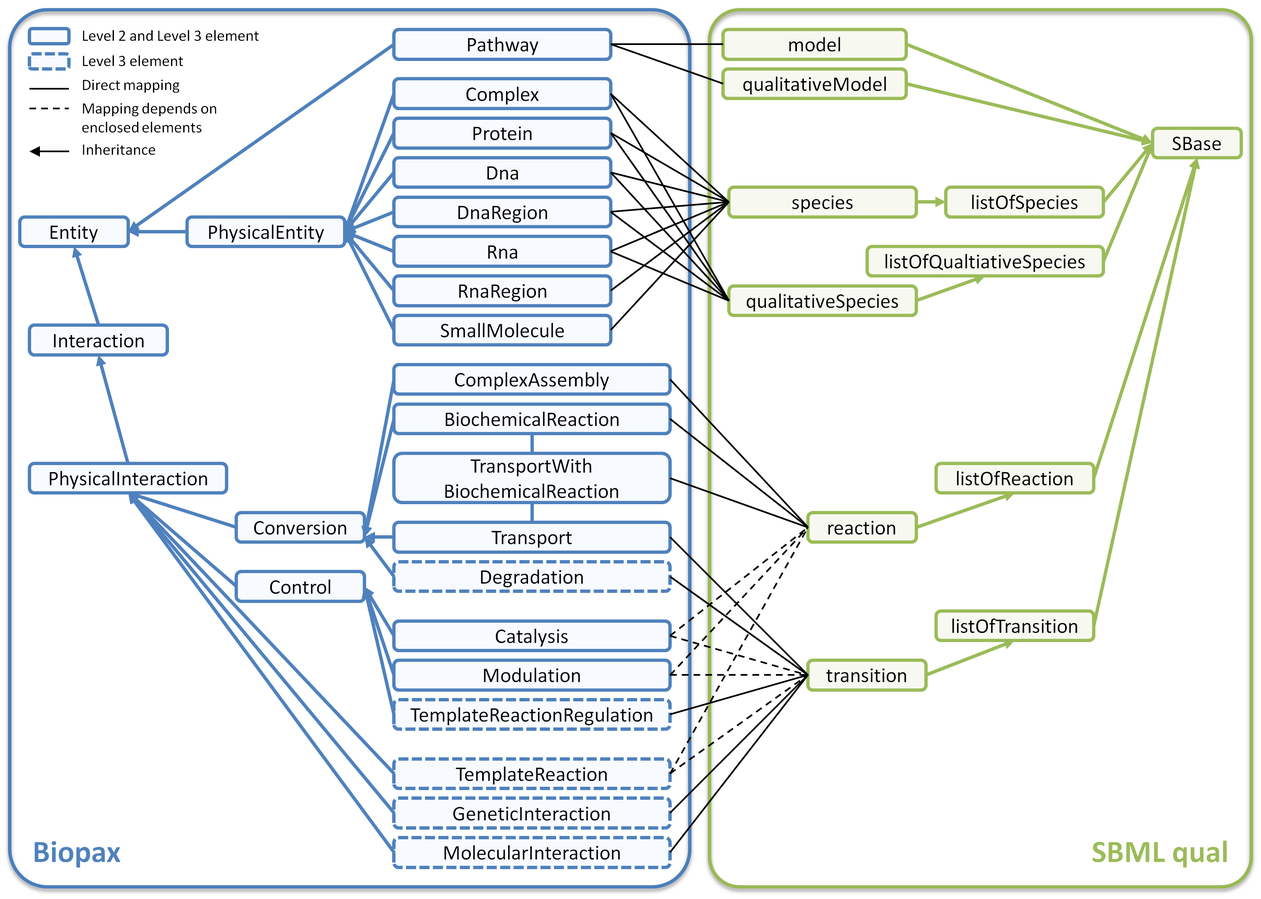
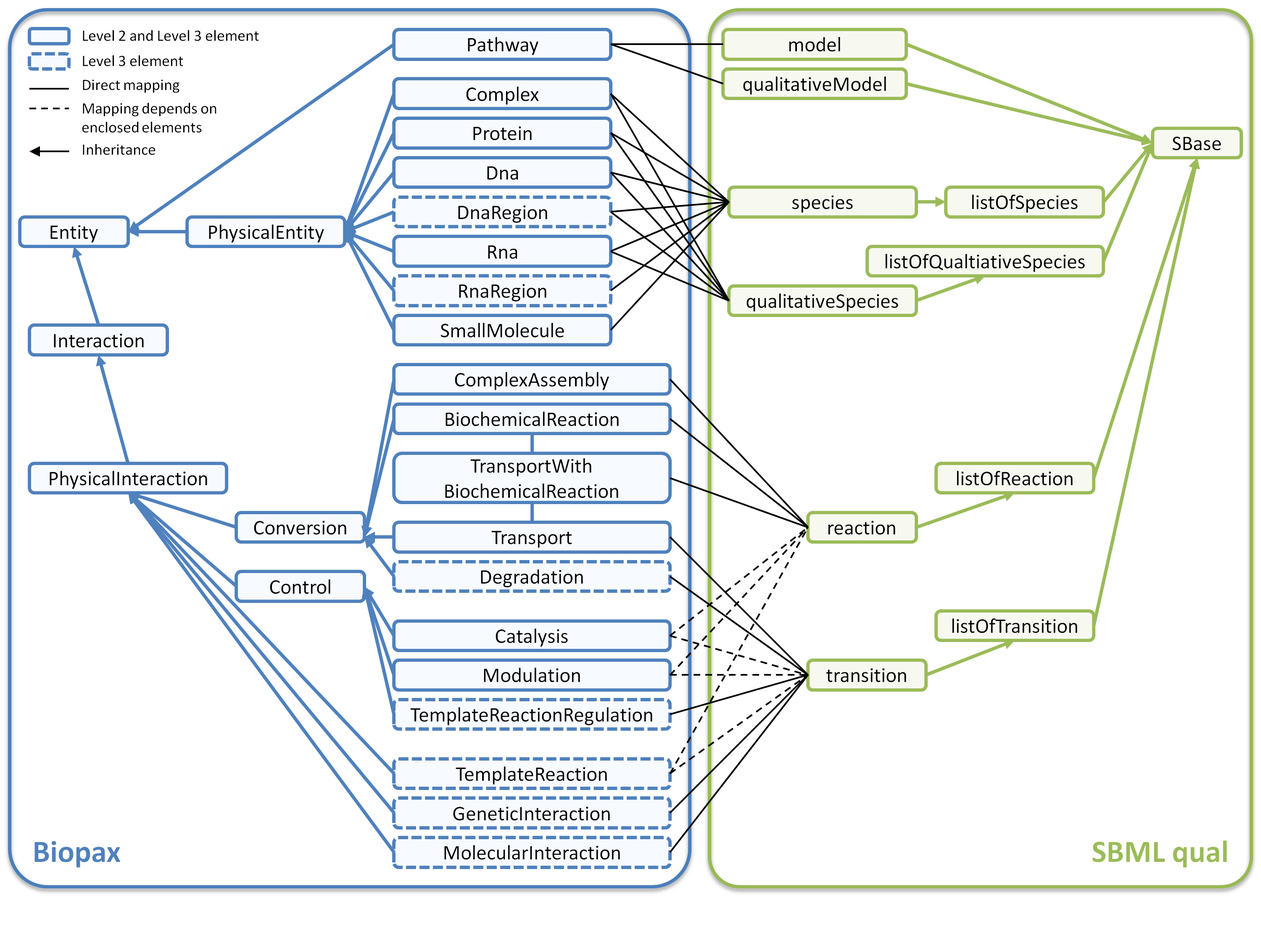
Added some citations, changed the image. Currently, I am working on the chapter 2.4
git-svn-id: svn://rarepos.cs.uni-tuebingen.de/SysBio/trunk@860 e728d8a2-de87-4acf-9dc5-8dc47f4ff2f0

Changed region(s): [[0.0, 0.0, 1.0, 1.0], [0.0, 0.0, 0.186, 0.1852]]

diff --git a/doc/ECCB2012_paper/document.tex b/doc/ECCB2012_paper/document.tex
@@ -21,16 +21,16 @@ and Andreas Zell\,$^1$\footnote{to whom correspondence should be addressed}}
 \begin{abstract}
 
 \section{Motivation:}
-BioPax and SBML are the two most popular modeling and data exchange languages in systems biology. 
-The focus of SBML is quantitative modeling and dynamic simulation of molecular interaction pathways, whereas the BioPax specification concentrates on visualization and qualitative analysis of pathway maps. 
-BioPax models reactions and relations. In contrast, SBML is exclusively able to handle reactions. 
-But with the release of the SBML qualitative Models extension (qual), it has recently also become possible to describe relations in SBML. 
+The Biological Pathway Exchange Language (BioPax) and the Systems Biology Markup Language (SBML) are the two most popular modeling and data exchange languages in systems biology.
+The focus of SBML is quantitative modeling and dynamic simulation of molecular interaction pathways, whereas the BioPax specification concentrates on visualization and qualitative analysis of pathway maps.
+BioPax models reactions and relations. In contrast, SBML is exclusively able to handle reactions.
+But with the release of the SBML qualitative Models extension (qual), it has recently also become possible to describe relations in SBML.
 Before this release, relations could not be translated to SBML or were erroneously converted to reactions. U
 ntil now, there exists no converter for BioPax to SBML, that is fully capable to translate both reactions and relations.
 \section{Results:}
-Here we present the conversion of the complete nature Pathway Interaction Database (PID) which includes pathways from BioCarta, Reactome, and from the National Cancer institute. 
-PID provides the pathways in the BioPax Level 2 and Level 3 format. 
-Both formats are translated to the SBML format including the new qual extension. 
+Here we present the conversion of the complete nature Pathway Interaction Database (PID) which includes pathways from BioCarta, Reactome, and from the National Cancer institute.
+PID provides the pathways in the BioPax Level 2 and Level 3 format.
+Both formats are translated to the SBML format including the new qual extension.
 Thus, the result SBML files contain both reactions and relations.
 \section{Availability:}
 The complete collection of the PID models is freely available on our homepage ..... (\textbf{TODO Finja: create homepage! and and if necessary licence})
@@ -38,26 +38,26 @@ The complete collection of the PID models is freely available on our homepage ..
 \end{abstract}
 
 \section{Introduction}
-The goal of systems biology is the modeling and understanding of biological and chemical processes in a cell. 
-BioPax and SBML are common modeling languages to describe such processes. 
-The BioPax specification aims at exchanging, visualization, and analyzing such processes on a large scale. 
-BioPax can be used to image metabolic, signaling, molecular, gene regulatory and genetic interaction networks \citep{Demir2010}. 
-In contrast, SBML is mostly used for quantitative modeling because it offers the possibility to include kinetic equations and enables the interpretation of the interaction network as an differential equation system \citep{Hucka2003}. 
-This is due to a detailed and comprehensive SBML specification which additionally facilitates software support for investigation and simulation processes \citep{Draeger2008}. 
+The goal of systems biology is the modeling and understanding of biological and chemical processes in a cell.
+The Biological Pathway Exchange Language (BioPax) and the Systems Biology Markup Language (SBML) are common modeling languages to describe such processes.
+The BioPax specification aims at exchanging, visualization, and analyzing such processes on a large scale.
+BioPax can be used to image metabolic, signaling, molecular, gene regulatory and genetic interaction networks \citep{Demir2010}.
+In contrast, SBML is mostly used for quantitative modeling because it offers the possibility to include kinetic equations and enables the interpretation of the interaction network as an differential equation system \citep{Hucka2003}.
+This is due to a detailed and comprehensive SBML specification which additionally facilitates software support for investigation and simulation processes \citep{Draeger2008}.
 The SBML core specification defines reactions in detail but no other relationships between molecules.
 %problem
 Before the release of the qualitative model specification (qual), it was not possible to define relations or to integrate reactions and relations in one model (\textbf{cite qual?}).
 %relevance
 Furthermore, it was not possible to easily combine or exchange information between different databases, if one database uses the BioPax format and the other one the SBML format.
 %literature review
-So far, there exist several visualization tools, like Cytoscape or CellDesigner, which can handle both formats by using plugins \citep{Mi2011, Draeger2008, Funahashi2007, Smoot2011a, Zinovyev2008}). 
-\citet*{Ruebenacker2009} suggest a new a bridging format to solve the problem of the conversion from BioPax to SBML. 
-But until now, there exists only converters from SBML to BioPax like The System Biology Format Converter (see http://www.ebi.ac.uk/compneur-srv/sbml/converters/SBMLtoBioPax.html) but no converter for BioPax to SBML, whose conversion would also include relations. 
+So far, there exist several visualization tools, like Cytoscape or CellDesigner, which can handle both formats by using plugins \citep{Mi2011, Draeger2008, Funahashi2007, Smoot2011a, Zinovyev2008}).
+\citet*{Ruebenacker2009} suggest a new a bridging format to solve the problem of the conversion from BioPax to SBML.
+But until now, there exists only converters from SBML to BioPax like The System Biology Format Converter (see http://www.ebi.ac.uk/compneur-srv/sbml/converters/SBMLtoBioPax.html) but no converter for BioPax to SBML, whose conversion would also include relations.
 The need to combine both formats to use the knowledge different databases in various application becomes more and more urgent.\\
 % what we did
 % necessary to mention why we use PID?
-In this paper we present a complete conversion of the nature Pathway Interaction Database (PID, \citet{Schaefer2009}) from BioPax Level 2 and Level 3 format to the SBML format including the qual extension. 
-The pathway conversion is implemented in Java (\textbf{TODO: Java Trademark}) and uses JSBML \citep{Draeger2011} and PaxTools \citep{Demir2010}. 
+In this paper we present a complete conversion of the nature Pathway Interaction Database (PID, \citet{Schaefer2009}) from BioPax Level 2 and Level 3 format to the SBML format including the qual extension.
+The pathway conversion is implemented in Java (\textbf{TODO: Java Trademark}) and uses JSBML \citep{Draeger2011} and PaxTools \citep{Demir2010}.
 The translated files are freely available on our homepage: ...\textbf{TODO and add licence}
 % what we find out?
 % what do the results mean (why are they significant?)
@@ -68,60 +68,91 @@ The translated files are freely available on our homepage: ...\textbf{TODO and a
 \section{Material and Methods}
 \subsection{The SBML and the qualitative Models extension}
 %%%%%%%%% SBML
-The SBML (Systems Biology Markup Language) core specification is a special XML format to describe quantitative models. Therefore, several classes are defined describing molecules and their interaction in a model. 
-The most important class \textbf{(TODO: better word, because SBase is an interface)} is \texttt{SBase} which inherits \texttt{species}, \texttt{reaction} and several other elements. 
+The SBML (Systems Biology Markup Language) core specification is a special XML format to describe quantitative models. Therefore, several classes are defined describing molecules and their interaction in a model.
+The most important class \textbf{(TODO: better word, because SBase is an interface)} is \texttt{SBase} which inherits \texttt{species}, \texttt{reaction} and several other elements.
 A \texttt{species} element describe each kind of molecule and can be further determined with the aid of MIRIAM annotations \citep{Juty2012}.
 The SBML core specification provides no possibility to define other relationships than concrete quantitative reactions. \citep{Hucka2003}\\
 %%%%%%%%% SBML qual
 The SBML qualitative models extension (qual) introduces qualitative elements, such as \texttt{qualitativeSpecies}, \texttt{symbol}, and \texttt{transition}, providing the necessary means to describe relationships like enzyme-enzyme relations, protein-protein interactions, interactions of transcription factors and genes, protein-compound interaction, or links to other pathways.
-%Although, technically, those processes are chemical reactions, too, it can often be far more useful to represent them by logical states and transitions. 
+%Although, technically, those processes are chemical reactions, too, it can often be far more useful to represent them by logical states and transitions.
 Instead of concentration levels that are transformed continuously via reactions, \texttt{qualitativeSpecies} have discrete states that are changed using \texttt{transition}s.
 These \texttt{transitions} consist of \texttt{input} and \texttt{output} elements and at least one \texttt{functionTerm}.
 If, in a qualitative model, a protein A is inhibiting a protein B, this would be represented as a \texttt{transition} with \texttt{input} A and \texttt{output} B.
-Furthermore, the input element has a \texttt{sign} attribute which describes if the relationship between the input and output elemenst is \texttt{positive}, \texttt{negative}, \texttt{dual}, or \texttt{unknown}.
+Furthermore, the input element has a \texttt{sign} attribute describing if the relationship between the input and output elemenst is \texttt{positive}, \texttt{negative}, \texttt{dual}, or \texttt{unknown}.
 \subsection{The BioPax specification}
-BioPax, the Biology Pathway Exchange Language, is an OWL (Web Ontology Language) dialect which based on the RDF syntax.
-There is one super class called \texttt{entity} which extends all other BioPax classes. 
-One distinguishes between two main classes: \texttt{PhysicalEntity} and \texttt{interaction}. 
-\texttt{PhysicalEntity} describes molecules, like proteins, complexes, small molecules, DNA, or RNA, whereas \texttt{Interaction} defines reactions and relations between the \texttt{PhysicalEntity}s. 
+The Biology Pathway Exchange Language (BioPax) is an OWL (Web Ontology Language) dialect which based on the RDF syntax.
+There is one super class called \texttt{entity} which extends all other BioPax classes.
+One distinguishes between two main classes: \texttt{PhysicalEntity} and \texttt{interaction}.
+\texttt{PhysicalEntity} describes molecules, like proteins, complexes, small molecules, DNA, or RNA, whereas \texttt{Interaction} defines reactions and relations between the \texttt{PhysicalEntity}s.
 \texttt{Interaction} is split into \texttt{Control} and \texttt{Conversion} which can be separated into the subclasses \texttt{Catalysis}, \texttt{Modulation}, \texttt{Transport}, \texttt{BiochemicalReaction}, and \texttt{Complex\-Assembly}.\\
-BioPax is released level-wise. 
-The current level is level 3. 
-Level 1 is exclusively able to describe metabolic interactions, whereas in Level 2 additionally supports signaling pathways and molecular interactions. 
-The difference between level 2 to level 3 is the ability of level 3 to model gene regulatory networks and genetic interactions. 
-For this purpose the control subclass \texttt{TemplateReactionReglulation} and the conversion subclass \texttt{Degradation} are added. 
+BioPax is released level-wise.
+The current level is level 3.
+Level 1 is exclusively able to describe metabolic interactions, whereas in Level 2 additionally supports signaling pathways and molecular interactions.
+The difference between level 2 to level 3 is the ability of level 3 to model gene regulatory networks and genetic interactions.
+For this purpose the control subclass \texttt{TemplateReactionReglulation} and the conversion subclass \texttt{Degradation} are added.
 Furthermore, \texttt{PhysicalEntity} is now able to define \texttt{DNAregion} and \texttt{RNAregion}.
 Level 3 is not backwards compatible with Level 2, but Level 2 is backward compatibel with Level 1. \citep{Demir2010}
 \subsection{Implementation}
-The conversion was programmed with Java, using JSBML \citep{Draeger2011} with the qualitative models extension, PaxTools, and the KEGG API (\citep{Kanehisa2006}). 
-PaxTools was used to read the BioPax files and to manipulate the information content. 
+The conversion was programmed with Java, using JSBML \citep{Draeger2011} with the qualitative models extension, PaxTools, and the KEGG API (\citep{Kanehisa2006}).
+PaxTools was used to read the BioPax files and to manipulate the information content.
 This information was extended with MIRIAM identifiers for the following databases: Entrez Gene, Omim, Ensembl, UniProt, ChEBI, DrugBank, Gene Ontology, HGNC, PubChem, 3DMET, NCBI Taxonomy, PDBeChem, GlycomeDB, LipidBank, EC-Numbers (enzyme nomeclature) and various KEGG databases (gene, glycan, reaction, compound, drug, pathway, orthology).
 Finally, the transformed information was written with the use of JSBML.\\
 \subsection{Conversion of BioPax to SBML qual}
-The complete the nature Pathway Interaction Database (PID) is converted from BioPax Level 2 and Level 3 to SBML including the qualitative models extension (\citep{Schaefer2009}). 
-PID provides NCI-Nature curated pathways, pathways from BioCarta from June 2004, and Reactome human pathways from Verstion 22, whereas the Reactome data is updated as soon as new pathway informations are available.\\
-The translation of the BioPax pathway files is performed in four steps. 
-Each file is handled in a way that 
-In the first step, the pathway organism is determined. 
-The default organism is human. 
-In the second step,
-% determining the organism
-% determining the pathway content
+%%%%%%%%%%%%%%%%%%%%%%%%%%% FIGURE 1 %%%%%%%%%%%%%%%%%%%%%%%%%%%%%%%%%%%%%%%%%%%%%%%%%%
+\begin{figure*}[t!h]
+\centering \includegraphics[width=0.95\textwidth]{BioPaxSBMLqual.png}
+\caption{Conversion from BioPax Level 2 and Level 3 to SBML with the qualitative models extension (qual).
+The green rounded rectangles describe the SBML and SBML qual classes, and the blue ones the BioPax elements.
+The distinction between BioPax Level 2 and Level 3 elements is visualized with dashed rectangles.
+These dashed rectangles denotes Level 3 elements which are not used in Level 2.
+All other elements occur in both levels.
+The ancestry of both BioPax and SBML elements is drawn as blue arrows for BioPax respectively with green arrows for SBML.
+The conversion from BioPax to SBML qual is drawn with black lines.
+For some BioPax elements, it depends on the enclosed entities if the BioPax element is translated to a reaction or to a relation.
+This translation dependency is visualized with black dashed lines.
+A detailed translation description of these elements is shown in Table \ref{Tab:BioPax2SBML}.}
+\label{fig:BioPaxSBMLqual}
+\end{figure*}
+
+%\begin{figure*}[t!h]
+%\centering \includegraphics[width=0.96\textwidth]{BioPax2SBMLqual.png}
+%\caption{Mapping from BioPax Level 2 data structures to SBML with the qualitative model extension (qual). The red rounded rectangles and lines describe the BioPax Level 2 elements and their ancestry. SBML qual entities and inheritance lines are colored green. The conversion from BioPax Level 2 to SBML qual is denoted with black lines. For some elements, it depends on the enclosed element entities if BioPax is translate to a reaction or a relation. These are visualized as black dashed lines. The translation of these elements is shown in more detail in Table \ref{Tab:BioPax2SBML}.}\label{fig:BioPax2SBMLqual}
+%\end{figure*}
+%
+%\begin{figure*}[t!h]
+%\centering \includegraphics[width=0.96\textwidth]{BioPax3SBMLqual.png}
+%\caption{Conversion from BioPax Level 3 to SBML with the qualitative model extension (qual). The blue rounded rectangles and lines describe the BioPax Level 3 elements and how they are inherited. SBML qual entities and inheritance lines are colored green. The conversion from BioPax Level 3 to SBML qual is denoted with black lines. For some elements, it depends on the enclosed element entities if BioPax is translate to a reaction or a relation. These are visualized as black dashed lines. The translation of these elements is shown in more detail in Table \ref{Tab:BioPax2SBML}.}\label{fig:BioPax3SBMLqual}
+%\end{figure*}
+%%%%%%%%%%%%%%%%%%%%%%%%%%% END FIGURE 1 %%%%%%%%%%%%%%%%%%%%%%%%%%%%%%%%%%%%%%%%%%%%%%
+The complete nature Pathway Interaction Database (PID) is converted from BioPax Level 2 and Level 3 to SBML including the qualitative models extension.
+PID provides NCI-Nature curated pathways, pathways from BioCarta from June 2004, and Reactome human pathways from Version 22, whereas the Reactome data is updated as soon as new pathway informations are available \citep{Schaefer2009}.\\
+The translation of the BioPax pathway files is performed in five steps.
+An overview of the mapping from BioPax elements to SBML and to SBML qual elements is shown in Figure \ref{fig:BioPaxSBMLqul}.
+%%%%%%%%%%%%%% 1. Step %%%%%% determine organism
+In the first step, the pathway organism is determined by searching for the BioSource reference in the BioPax file.
+The default organism is human.
+%%%%%%%%%%%%%% 2. Step %%%%%% model creation
+In the second step, the SBML \texttt{model} and \texttt{qualitativeModel} are build.
+The models correspond to the complete pathway represented in the BioPax file.
+%%%%%%%%%%%%%% 3. Step %%%%%% entities and annotation
 % conversion of Entities, gene id...
+In the third step, for each \texttt{PhysicalEntity} a SBML \texttt{species} and \texttt{qualitativeSpecies} is created.
+Initially, (\textbf{TODO: how is the species influenced if the PhysicalEntity is gene, protein..}).
+Then, it is searched if there exists an RDF link from the \texttt{PhysicalEntity} to the corresponding Entrez Gene ID, because the Gene ID facilitates the annotation in the fifth step.
+If there exists no Gene ID, the gene symbol is search and mapped to a Gene ID.
+If neither a gene id nor a gene symbol is available the name of the \texttt{PhysicalEntity} is used.
+%%%%%%%%%%%%%% 4. Step %%%%%% reaction relations
+In the fourth step, the BioPax interaction elements are converted. For
 % conversion of reaction
+    % level 3 stoichometrie level 2 hat das noch nicht
 % conversion of relations
-% models beschreiben
-
-\begin{itemize}
-\item Species(Organism) is determined automatically (if it is mentioned in the file)
-\item Works file vice, 1 file = 1 pathway
-\item how is distinguished between a transition and a reaction... -> include table
-\item gene symbol -> gene id -> unknown
-\item annotations of the species? \textbf{TODO Clemens: K\"onntest du das bitte ausf\"uhren/erg\"anzen?SBO terms, GO,...?}
-\end{itemize}
+    % Unterscheidung relation/reaction
+    % Verweis auf Bild
+    % Verweis auf Tabelle
 
 
-\begin{table}[!t]
+%%%%%%%%%%%%%%%%%%%%%%%%%%% TABLE 1 %%%%%%%%%%%%%%%%%%%%%%%%%%%%%%%%%%%%%%%%%%%%%%%%%
+\begin{table}[t!h]
 \processtable{Description of the translation of BioPax control elements\label{Tab:BioPax2SBML}}
 {\begin{tabular}{llll}\toprule
 BioPax controller & BioPax controlled               & Converted\\
@@ -163,58 +194,41 @@ pathway         & control                           & transition\\
 pathway         & pathway                           & transition\\
 pathway         & transportWithBiochemicalReaction  & transition\\
 pathway         & transport                         & transition\\\botrule
-\end{tabular}}{BioPax control elements consists of a controller and one or more controlled elements. 
-Depending on the kind of controller or controlled element, an entity is translated to a reaction or a transition. 
+\end{tabular}}{BioPax control elements consists of a controller and one or more controlled elements.
+Depending on the kind of controller or controlled element, an entity is translated to a reaction or a transition.
 The table gives an overview of this conversion regarding BioPax Level 2 and BioPax Level 3.}
 \end{table}
+%%%%%%%%%%%%%%%%%%%%%%%%%%% END TABLE 1 %%%%%%%%%%%%%%%%%%%%%%%%%%%%%%%%%%%%%%%%%%%%%%%
 
-
-
-%%%%%%%%%%%%%%%%%%%%%%%%%%%%%
-%% CLEMENS: MIRIAM und SBO %%
-%%%%%%%%%%%%%%%%%%%%%%%%%%%%%
-The BioPax specification allows users to encode arbitrary identifiers for elements. 
-These can be identifiers for various databases, e.g., UniProt, Entrez Gene, Ensembl, etc. Unfortunately, the syntax used in BioPax is not very consistent which leads to XML elements like TODO-X or TODO-Y within BioPax documents that hamper the automatic reading and interpretation of those models by third party applications. 
-[FINJA: BITTE DIE TODOS MIT DEM BEISPIEL <RDF UNIPROT=UNIPROT:hj35k3> und <RDF UNIPROT=hj35k3> oder \"ahnlichen uneinheitlichen beispielen f\"ullen]
-In SBML, such identifiers can be expressed as standardized MIRIAM URNs that can be added as annotation to any SBML element. 
+%%%%%%%%%%%%%%%% Step 5 %%%%% annotation %%%%%%%%
+%% CLEMENS: MIRIAM und SBO                     %%
+%%%%%%%%%%%%%%%%%%%%%%%%%%%%%%%%%%%%%%%%%%%%%%%%%
+In the fifth and final step, the SBML instances are further annotated.
+The BioPax specification allows users to encode arbitrary identifiers for elements.
+These can be identifiers for various databases, e.g., UniProt, Entrez Gene, Ensembl, etc. Unfortunately, the syntax used in BioPax is not very consistent which leads to XML elements like TODO-X or TODO-Y within BioPax documents that hamper the automatic reading and interpretation of those models by third party applications.
+%%%%%%%%%%% Beispiel %%%%%%%%%%%%%%%%%%%%
+\textbf{TODO: Rewrite this example!!!}
+  <bp:unificationXref rdf:ID="unificationXref14">
+    <bp:DB rdf:datatype="http://www.w3.org/2001/XMLSchema\#string">UniProt</bp:DB>
+    <bp:ID rdf:datatype="http://www.w3.org/2001/XMLSchema\#string">Q4KMY3</bp:ID>
+  </bp:unificationXref>
+  <bp:unificationXref rdf:ID="unificationXref14">
+    <bp:DB rdf:datatype="http://www.w3.org/2001/XMLSchema\#string">UniProtKB</bp:DB>
+    <bp:ID rdf:datatype="http://www.w3.org/2001/XMLSchema\#string">Q4KMY3</bp:ID>
+  </bp:unificationXref>
+  <bp:unificationXref rdf:ID="unificationXref14">
+    <bp:DB rdf:datatype="http://www.w3.org/2001/XMLSchema\#string">UniProt</bp:DB>
+    <bp:ID rdf:datatype="http://www.w3.org/2001/XMLSchema\#string">Q4KMY3, Q7Z5L2</bp:ID>
+  </bp:unificationXref>
+%%%%%%%%%%% Beispiel ENDE %%%%%%%%%%%%%%%%%%%%
+  
+In SBML, such identifiers can be expressed as standardized MIRIAM URNs that can be added as annotation to any SBML element.
 We support and add MIRIAM identifiers for the following databases: Entrez Gene, Omim, Ensembl, UniProt, ChEBI, DrugBank, Gene Ontology, HGNC, PubChem, 3DMET, NCBI Taxonomy, PDBeChem, GlycomeDB, LipidBank, EC-Numbers (enzyme nomeclature) and various KEGG databases (gene, glycan, reaction, compound, drug, pathway, orthology).
 All supported identifiers from the BioPax files are parsed, some are manually curated (see example of inconsistent usage above) and many annotations are supplemented by additional queries to the KEGG API for every translated element.
 The goal of those annotations is to provide models that can be used directly by many researchers, no matter what identifiers or databases they use.
 
 TODO: Typen (protein, gen, etc.) als SBO term in detail auflisten und erklaeren.
-%%%%%%%%%%%%%%%%%%%%%%%%%%%%%
-%%%%%%%%%%%%%%%%%%%%%%%%%%%%%
-\begin{figure*}[t!h]
-\centering \includegraphics[width=0.95\textwidth]{BioPaxSBMLqual.png}
-\caption{Conversion from BioPax Level 2 and Level 3 to SBML with the qualitative models extension (qual). 
-The green rounded rectangles describe the SBML and SBML qual classes, and the blue ones the BioPax elements. 
-The distinction between BioPax Level 2 and Level 3 elements is visualized with dashed rectangles. 
-These dashed rectangles denotes Level 3 elements which are not used in Level 2. 
-All other elements occur in both levels. 
-The ancestry of both BioPax and SBML elements is drawn as blue arrows for BioPax respectively with green arrows for SBML. 
-The conversion from BioPax to SBML qual is drawn with black lines. 
-For some BioPax elements, it depends on the enclosed entities if the BioPax element is translated to a reaction or to a relation. 
-This translation dependency is visualized with black dashed lines. 
-A detailed translation description of these elements is shown in Table \ref{Tab:BioPax2SBML}.}
-\label{fig:BioPaxSBMLqual}
-\end{figure*}
 
-%\begin{figure*}[t!h]
-%\centering \includegraphics[width=0.96\textwidth]{BioPax2SBMLqual.png}
-%\caption{Mapping from BioPax Level 2 data structures to SBML with the qualitative model extension (qual). The red rounded rectangles and lines describe the BioPax Level 2 elements and their ancestry. SBML qual entities and inheritance lines are colored green. The conversion from BioPax Level 2 to SBML qual is denoted with black lines. For some elements, it depends on the enclosed element entities if BioPax is translate to a reaction or a relation. These are visualized as black dashed lines. The translation of these elements is shown in more detail in Table \ref{Tab:BioPax2SBML}.}\label{fig:BioPax2SBMLqual}
-%\end{figure*}
-%
-%
-%\begin{figure*}[t!h]
-%\centering \includegraphics[width=0.96\textwidth]{BioPax3SBMLqual.png}
-%\caption{Conversion from BioPax Level 3 to SBML with the qualitative model extension (qual). The blue rounded rectangles and lines describe the BioPax Level 3 elements and how they are inherited. SBML qual entities and inheritance lines are colored green. The conversion from BioPax Level 3 to SBML qual is denoted with black lines. For some elements, it depends on the enclosed element entities if BioPax is translate to a reaction or a relation. These are visualized as black dashed lines. The translation of these elements is shown in more detail in Table \ref{Tab:BioPax2SBML}.}\label{fig:BioPax3SBMLqual}
-%\end{figure*}
-
-
-\begin{itemize}
-\item TODO: Conversion/Control elemente nochmal zus�tzlich einzeichnen?
-\item Eine example conversion einbauen? -> evtl bei results and discussion um zu zeigen, warum nicht alle relationen einwandfrei \"ubersetzt werden k\"onnen
-\end{itemize}
 \end{methods}
 
 
@@ -223,7 +237,9 @@ A detailed translation description of these elements is shown in Table \ref{Tab:
 Warum ist es so toll einen converter von biopax to sbml qual zu haben?
 \begin{itemize}
 \item we can exchange and combine information from different databases using different model languages
-\item \textbf{TODO: Clemens, Florian und Andreas: Habt ihr hier noch konkrete Erg\"anzungen?}
+\item TODO: Conversion/Control elemente nochmal zus�tzlich einzeichnen?
+\item Eine example conversion einbauen? -> evtl bei results and discussion um zu zeigen, warum nicht alle relationen einwandfrei \"ubersetzt werden k\"onnen
+    \item \textbf{TODO: Clemens, Florian und Andreas: Habt ihr hier noch konkrete Erg\"anzungen?}
 \end{itemize}
 
 \section{Conclusion}
@@ -257,8 +273,5 @@ We thank xy.
 %\bibliographystyle{plain}
 %
 \bibliography{document}
-
-
-
 
 \end{document}
